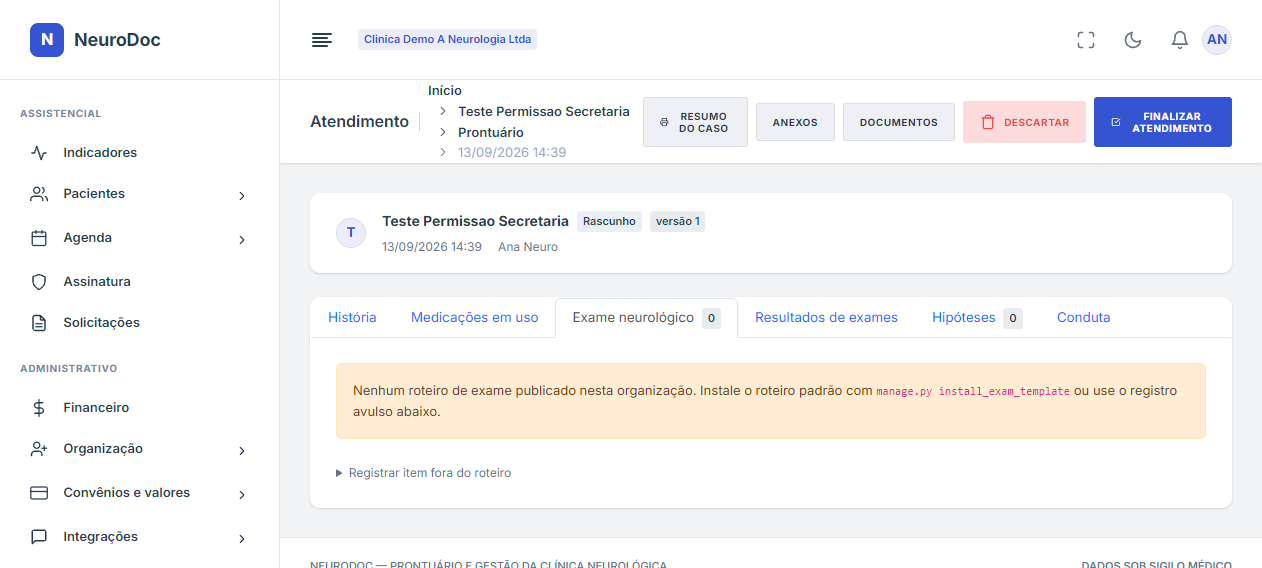
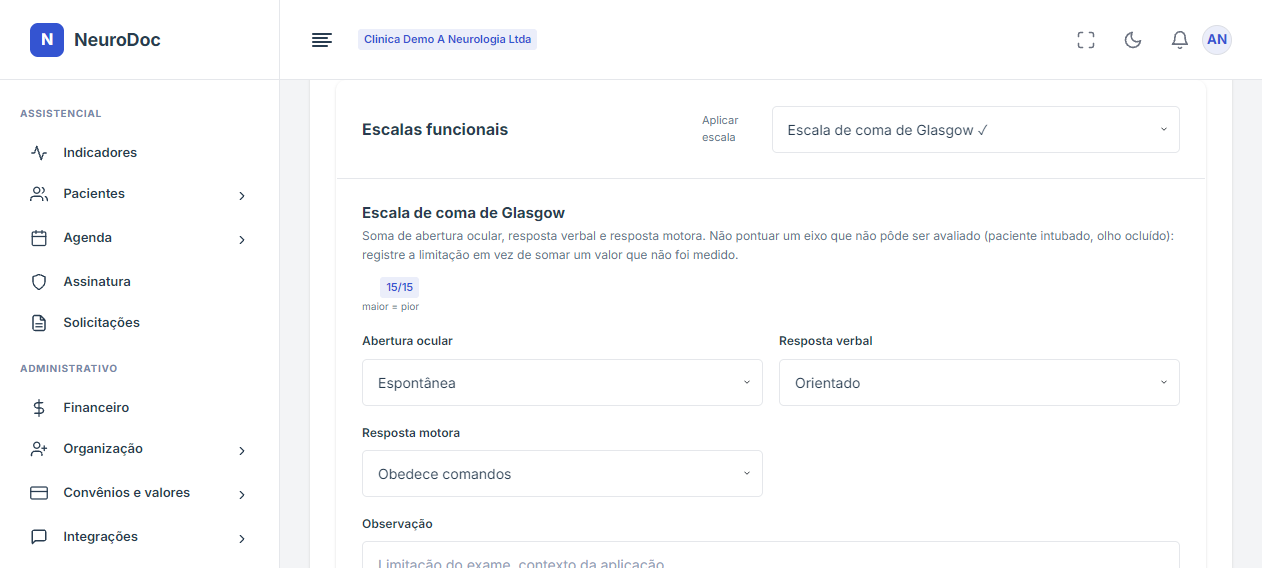
O roteiro de exame vem com a clinica, e nao por comando de terminal
Cadastrar um paciente, abrir o atendimento, clicar em Exame neurologico e
ler um pedido para rodar `manage.py install_exam_template`.

O aviso estava correto: a organizacao nao tinha roteiro. O defeito e que
**nenhum caminho de criacao de organizacao instalava um**. O comando
existia e funcionava, mas comando so roda quando alguem lembra, e os dois
lugares onde uma clinica nasce nao o chamavam -- nem
`accept_platform_invitation`, que e o caminho de producao, nem
`seed_demo`. Toda clinica que entrasse em producao cairia nessa tela, e a
primeira pessoa a abrir o exame neurologico seria a primeira a descobrir
que ele nao estava la.

`exams/provisioning.py::ensure_default_template` passa a ser chamada nos
dois pontos. Idempotente: reinstalar versiona, e isso esta certo para uma
atualizacao deliberada, mas provisionar nao e atualizar. Nao derruba quem
esta entrando: a falha aqui seria de empacotamento, e clinica sem roteiro
ainda registra achado em texto avulso -- abortar o cadastro trocaria um
problema pequeno por um intransponivel. Roda no proprio ponto de
salvamento, para nao envenenar a transacao de quem chamou.

O aviso ficou, porque o estado continua possivel, mas reescrito: fala com
quem esta atendendo, diz o que fazer agora e a quem recorrer. O comando
de terminal pedia ao medico algo que ele nao tem como fazer.

Chegou ao manual publico: `exame-roteiro.png` e `exame-escalas.png` foram
tiradas contra o banco recem-limpo e mostravam o aviso de erro como se
[…]

diff --git a/templates/clinical/detail.html b/templates/clinical/detail.html
@@ -312,9 +312,17 @@ digitado em outra.{% endcomment %}
                 {% include "exams/scales.html" %}
 
                 {% else %}
-                <div class="alert alert-warning fade show fs-13" role="alert">
-                    Nenhum roteiro de exame publicado nesta organização. Instale o roteiro padrão
-                    com <code>manage.py install_exam_template</code> ou use o registro avulso abaixo.
+                {% comment %}Estado raro: toda organização recebe o roteiro padrão
+                ao ser criada. Se ele não está aqui, alguém o despublicou — e a
+                mensagem fala com quem está atendendo, não com um administrador de
+                servidor. O comando de terminal que ficava nesta linha pedia ao
+                médico algo que ele não tem como fazer.{% endcomment %}
+                <div class="alert alert-soft-warning fade show fs-13" role="alert">
+                    Esta organização está sem roteiro de exame publicado. Registre os
+                    achados pelo campo avulso abaixo — eles entram no prontuário do mesmo
+                    jeito — e avise o suporte em
+                    <a href="mailto:contato@neurodoc.app.br">contato@neurodoc.app.br</a>
+                    para restabelecer o roteiro completo.
                 </div>
                 {% endif %}
 

diff --git a/checks/check_roteiro.py b/checks/check_roteiro.py
@@ -1,0 +1,134 @@
+"""Toda clinica nasce com o roteiro de exame -- ou nasce quebrada?
+
+O exame neurologico estruturado e a razao de o produto existir para um
+neurologista, e ate aqui ele dependia de alguem lembrar de rodar
+`manage.py install_exam_template` depois de criar a organizacao.
+
+Ninguem lembrava. A clinica entrava, atendia o primeiro paciente, abria o
+exame e lia um aviso pedindo um comando de terminal que o dono do
+consultorio nao tem como executar. O defeito chegou ate as capturas do
+manual publico, que e onde ele foi finalmente visto.
+
+As perguntas sao:
+
+- as clinicas que existem tem roteiro publicado e padrao?
+- a tela de atendimento ainda pede o comando de terminal?
+- uma clinica criada agora, por convite, ja nasce com roteiro?
+- provisionar duas vezes versiona o roteiro sem necessidade?
+"""
+from django.conf import settings as dj_settings
+from django.test import Client
+
+dj_settings.ALLOWED_HOSTS = list(dj_settings.ALLOWED_HOSTS) + ['testserver']
+
+from accounts.models import User
+from clinical.models import Encounter
+from exams.models import (
+    ExamNode, ExamScale, ExamScaleItem, ExamTemplate, ExamTemplateStatus,
+)
+from exams.provisioning import ensure_default_template
+from tenancy.invitations import issue_invitation
+from tenancy.models import InvitationPurpose, Membership, Tenant
+from tenancy.plans import PlanCode
+from tenancy.services import accept_platform_invitation
+
+falhas = []
+
+
+def _oficiais(tenant_id):
+    return ExamTemplate.objects.filter(
+        tenant_id=tenant_id, owner_membership__isnull=True,
+        status=ExamTemplateStatus.PUBLISHED,
+    )
+
+
+print('=== 1. as clinicas existentes tem roteiro publicado e padrao ===')
+for tenant in Tenant.objects.all():
+    publicados = _oficiais(tenant.id).count()
+    padrao = ExamTemplate.objects.filter(tenant=tenant, is_default=True).first()
+    nos = padrao.nodes.count() if padrao else 0
+    print(f'  {tenant.slug:18} publicados={publicados}  padrao={bool(padrao)}  nos={nos}')
+    if not publicados:
+        falhas.append(f'{tenant.slug} nao tem roteiro de exame publicado')
+    if padrao is None:
+        falhas.append(f'{tenant.slug} nao tem roteiro padrao')
+    elif nos < 100:
+        # O roteiro de neurologia tem centenas de nos; um punhado significa
+        # carga interrompida no meio, que e pior do que nao ter.
+        falhas.append(f'{tenant.slug} tem roteiro padrao com apenas {nos} nos')
+
+print('=== 2. a tela de atendimento nao pede comando de terminal ===')
+tenant_a = Tenant.objects.get(slug='demo-clinica-a')
+medico = User.objects.get(email='doctor-a@demo.neurodoc.local')
+atendimento = Encounter.objects.filter(tenant=tenant_a).first()
+c = Client()
+c.force_login(medico)
+s = c.session
+s['tenant_id'] = str(tenant_a.id)
+s.save()
+corpo = c.get(f'/app/clinical/encounters/{atendimento.id}/').content.decode()
+pede_comando = 'install_exam_template' in corpo
+sem_roteiro = 'Nenhum roteiro de exame publicado' in corpo
+print(f'  cita install_exam_template={pede_comando}  avisa sem roteiro={sem_roteiro}')
+if pede_comando or sem_roteiro:
+    falhas.append('a tela de atendimento manda o usuario rodar um comando de terminal')
+
+print('=== 3. clinica criada por convite ja nasce com roteiro ===')
+
+
+def _cnpj(base):
+    def dv(nums, pesos):
+        resto = sum(n * p for n, p in zip(nums, pesos)) % 11
+        return 0 if resto < 2 else 11 - resto
+
+    numeros = [int(x) for x in base]
+    d1 = dv(numeros, [5, 4, 3, 2, 9, 8, 7, 6, 5, 4, 3, 2])
+    d2 = dv(numeros + [d1], [6, 5, 4, 3, 2, 9, 8, 7, 6, 5, 4, 3, 2])
+    return base + str(d1) + str(d2)
+
+
+emissor = User.objects.filter(is_superuser=True).first()
+retorno = issue_invitation(
+    purpose=InvitationPurpose.PLATFORM, issued_by=emissor, plan=PlanCode.BASIC,
+)
+token = next(x for x in retorno if isinstance(x, str))
+usuario, nova, _vinculo = accept_platform_invitation(
+    token, 'check-roteiro@example.invalid', 'S3nhaF0rte!123',
+    'Clinica Do Roteiro Ltda', _cnpj('987654320001'),
+)
+publicados = _oficiais(nova.id).count()
+padrao = ExamTemplate.objects.filter(tenant=nova, is_default=True).first()
+escalas = ExamScale.objects.filter(tenant=nova).count()
+print(f'  {nova.slug}: publicados={publicados}  padrao={bool(padrao)} '
+      f'nos={padrao.nodes.count() if padrao else 0}  escalas={escalas}')
+if not publicados or padrao is None:
+    falhas.append('clinica criada por convite nasceu sem roteiro de exame')
+if not escalas:
+    falhas.append('clinica criada por convite nasceu sem as escalas')
+
+print('=== 4. provisionar de novo nao versiona a toa ===')
+# Reinstalar deliberadamente versiona, e esta certo -- e assim que uma
+# atualizacao do roteiro preserva o atendimento antigo. O que nao pode e a
+# clinica ganhar uma versao nova a cada vez que o provisionamento roda.
+antes = _oficiais(nova.id).count()
+repetido = ensure_default_template(nova.id)
+depois = _oficiais(nova.id).count()
+print(f'  chamou de novo -> devolveu={repetido}  publicados {antes} -> {depois}')
+if repetido is not None or depois != antes:
+    falhas.append('provisionar duas vezes criou uma versao nova do roteiro sem necessidade')
+
+# limpeza: a clinica de teste nao fica no banco
+ExamNode.objects.filter(tenant=nova).delete()
+ExamTemplate.objects.filter(tenant=nova).delete()
+ExamScaleItem.objects.filter(tenant=nova).delete()
+ExamScale.objects.filter(tenant=nova).delete()
+Membership.objects.filter(tenant=nova).delete()
+nova.delete()
+usuario.delete()
+
+print('---')
+if falhas:
+    for linha in falhas:
+        print('FALHA:', linha)
+    raise SystemExit(1)
+print('OK: a clinica nasce com o roteiro de exame, e a tela nao pede terminal.')

diff --git a/exams/provisioning.py b/exams/provisioning.py
@@ -1,0 +1,58 @@
+"""O roteiro de exame que toda clínica recebe ao nascer.
+
+O exame neurológico estruturado é o motivo de o produto existir para um
+neurologista, e até aqui ele dependia de alguém lembrar de rodar
+`manage.py install_exam_template` depois de criar a organização. Ninguém
+lembra: a clínica entrava, atendia o primeiro paciente, abria o exame e
+lia um aviso pedindo um comando de terminal que o dono do consultório não
+tem como executar.
+
+Provisionar é do sistema, não do operador. A instalação passou para o
+mesmo ponto em que a organização nasce.
+"""
+import logging
+
+from django.db import transaction
+
+from .loader import DATA_DIR, TemplateLoadError, install_template
+from .models import ExamTemplate, ExamTemplateStatus
+
+logger = logging.getLogger(__name__)
+
+DEFAULT_TEMPLATE_FILE = DATA_DIR / 'neurologia.yaml'
+
+
+def has_official_template(tenant_id):
+    """A organização já tem roteiro publicado próprio (não de um médico)?"""
+    return ExamTemplate.objects.filter(
+        tenant_id=tenant_id,
+        owner_membership__isnull=True,
+        status=ExamTemplateStatus.PUBLISHED,
+    ).exists()
+
+
+def ensure_default_template(tenant_id, path=DEFAULT_TEMPLATE_FILE):
+    """Instala o roteiro padrão se a clínica ainda não tiver um.
+
+    Idempotente de propósito: reinstalar versiona (é o que `install_template`
+    faz, e está certo para uma atualização deliberada), mas uma organização
+    que já tem roteiro não deve ganhar uma versão nova só porque alguém
+    rodou o provisionamento de novo.
+
+    **Não derruba quem está entrando.** A falha aqui é de empacotamento — o
+    YAML vem no repositório —, e uma clínica sem roteiro ainda é uma clínica
+    utilizável: ela registra o exame em texto avulso e o roteiro pode ser
+    instalado depois. Derrubar o cadastro inteiro por causa disso troca um
+    problema pequeno por um intransponível.
+    """
+    if has_official_template(tenant_id):
+        return None
+    try:
+        # Ponto de salvamento próprio: se a carga falhar no meio, o que ela
+        # criou desaparece sem contaminar a transação de quem chamou.
+        with transaction.atomic():
+            template, _ = install_template(tenant_id, path)
+    except (TemplateLoadError, OSError):
+        logger.exception('Falha ao instalar o roteiro de exame no tenant %s', tenant_id)
+        return None
+    return template

diff --git a/base/management/commands/seed_demo.py b/base/management/commands/seed_demo.py
@@ -27,6 +27,7 @@ class Command(BaseCommand):
         from accounts.models import User
         from catalogs.importers import activate_release, import_catalog
         from catalogs.models import CatalogRelease
+        from exams.provisioning import ensure_default_template
         from patients.models import (
             HealthPlan, HealthPlanKind, Insurer, ObservationKind, Patient, PatientCoverage,
             SexAtRegistration,
@@ -73,6 +74,13 @@ class Command(BaseCommand):
             elif tenant.plan != plan:
                 tenant.plan = plan
                 tenant.save(update_fields=['plan'])
+            # O roteiro de exame vem junto, como vem em qualquer clínica
+            # criada pelo sistema. Sem isto, a demonstração recém-semeada
+            # abre o exame neurológico num aviso pedindo um comando de
+            # terminal -- e foi assim que ele foi parar nas capturas do
+            # manual.
+            if ensure_default_template(tenant.id) is not None:
+                counts['roteiros'] = counts.get('roteiros', 0) + 1
             return tenant
 
         def get_or_create_membership(tenant, user, roles):

diff --git a/checks/check_convite_plano.py b/checks/check_convite_plano.py
@@ -48,10 +48,18 @@ def apagar_organizacoes(cnpjs, emails):
     isto fora de um banco de demonstracao.
     """
     from audit.models import AuditEvent
+    from exams.models import ExamNode, ExamScale, ExamScaleItem, ExamTemplate
     from tenancy.models import Membership
 
     Membership.objects.filter(tenant__cnpj__in=cnpjs).delete()
     AuditEvent.objects.filter(tenant__cnpj__in=cnpjs).delete()
+    # A organizacao nasce com o roteiro de exame e as escalas (veja
+    # `exams/provisioning.py`), e `ExamScale.tenant` tambem e `PROTECT`.
+    # Ordem importa: no depende de template, item depende de escala.
+    ExamNode.objects.filter(tenant__cnpj__in=cnpjs).delete()
+    ExamTemplate.objects.filter(tenant__cnpj__in=cnpjs).delete()
+    ExamScaleItem.objects.filter(tenant__cnpj__in=cnpjs).delete()
+    ExamScale.objects.filter(tenant__cnpj__in=cnpjs).delete()
     Tenant.objects.filter(cnpj__in=cnpjs).delete()
     User.objects.filter(email__in=emails).delete()
 

diff --git a/tenancy/services.py b/tenancy/services.py
@@ -37,6 +37,7 @@ def accept_platform_invitation(token, email, password, legal_name, cnpj, trade_n
     failed signup never burns a one-time invite.
     """
     from accounts.models import User
+    from exams.provisioning import ensure_default_template
 
     invitation = consume_invitation(token, consumed_by=None, expected_purpose=InvitationPurpose.PLATFORM)
     if invitation is None:
@@ -68,6 +69,9 @@ def accept_platform_invitation(token, email, password, legal_name, cnpj, trade_n
     )
     invitation.consumed_by = user
     invitation.save(update_fields=['consumed_by'])
+    # A clínica nasce pronta para atender: sem isto, o primeiro exame
+    # neurológico abre num aviso pedindo um comando de terminal.
+    ensure_default_template(tenant.id)
     return user, tenant, membership
 
 

diff --git a/docs/homologation/exam-provisioning.md b/docs/homologation/exam-provisioning.md
@@ -1,0 +1,94 @@
+# O roteiro de exame vem com a clínica
+
+Reportado em uso real: cadastrar um paciente, abrir o atendimento, clicar
+na aba **Exame neurológico** e ler
+
+> Nenhum roteiro de exame publicado nesta organização. Instale o roteiro
+> padrão com `manage.py install_exam_template` ou use o registro avulso
+> abaixo.
+
+Evidências: `checks/check_roteiro.py`.
+
+## O defeito não era o aviso
+
+O aviso estava tecnicamente correto — a organização realmente não tinha
+roteiro. O defeito é que **nenhum caminho de criação de organização
+instalava um**.
+
+`exams/management/commands/install_exam_template.py` existe desde o
+começo e funciona. Mas era um comando, e um comando só roda quando alguém
+lembra de rodá-lo. Os dois lugares onde uma clínica nasce não o
+chamavam:
+
+- `tenancy/services.py::accept_platform_invitation` — o caminho de
+  produção, o convite que cria a organização e o dono;
+- `base/management/commands/seed_demo.py` — a demonstração.
+
+Ou seja: **toda clínica que entrasse em produção cairia nessa tela**, e
+a primeira pessoa a ver o exame neurológico seria também a primeira a
+descobrir que ele não estava lá. O produto é um prontuário de
+neurologia; o exame estruturado é o motivo de ele existir.
+
+## Onde a correção foi parar
+
+`exams/provisioning.py`, `ensure_default_template(tenant_id)`, chamada
+nos dois pontos acima. Três decisões dentro dela:
+
+**Idempotente.** Reinstalar versiona o roteiro, e isso está certo para
+uma atualização deliberada — o atendimento antigo continua lendo a versão
+com que foi preenchido. Mas provisionar não é atualizar: uma clínica que
+já tem roteiro não ganha versão nova só porque a semeadura rodou de novo.
+A função devolve `None` nesse caso, e `check_roteiro` seção 4 confere.
+
+**Não derruba quem está entrando.** A falha aqui seria de empacotamento —
+o YAML vem no repositório. E uma clínica sem roteiro ainda é utilizável:
+registra o achado em texto avulso. Abortar o cadastro inteiro trocaria um
+problema pequeno por um intransponível, então a exceção é registrada no
+log e o cadastro segue.
+
+**Ponto de salvamento próprio.** A carga roda dentro do seu próprio
+`transaction.atomic()`, para que uma falha no meio desapareça sem
+contaminar a transação de quem chamou — `accept_platform_invitation` é
+atômica, e uma exceção de banco engolida lá dentro envenenaria o cadastro
+inteiro.
+
+As **14 escalas funcionais** vêm junto: `install_template` chama
+`load_scales`. A clínica nova nasce com 387 nós de roteiro e as escalas
+pontuadas.
+
+## O aviso que sobrou
+
+O estado continua possível — alguém pode despublicar o roteiro — então a
+mensagem ficou, reescrita. A anterior pedia ao médico que rodasse
+`manage.py install_exam_template`: um comando de terminal, num servidor a
+que ele não tem acesso, com uma sintaxe que não significa nada para quem
+está atendendo. A nova diz o que fazer agora (registrar pelo campo
+avulso, que preserva o achado no prontuário) e a quem recorrer.
+
+## Chegou até o manual público
+
+As capturas `exame-roteiro.png` e `exame-escalas.png` da central de ajuda
+foram tiradas contra o banco de demonstração recém-limpo — que, pelo
+mesmo defeito, estava sem roteiro. O manual público mostrava o aviso de
+erro como se fosse a tela normal do produto. Ambas refeitas.
+
+É o segundo achado da mesma natureza nesta rodada: um defeito que só uma
+**instalação limpa** revela. O primeiro foram os dois defeitos do
+`seed_demo` (regra de agenda sem `starts_on`, catálogo real rebaixado
+pelo de amostra). Banco de trabalho acumulado esconde exatamente a
+experiência de quem chega agora.
+
+## O que foi verificado
+
+`checks/check_roteiro.py`, quatro seções, todas verdes:
+
+| # | Pergunta | Resultado |
+| --- | --- | --- |
+| 1 | As clínicas existentes têm roteiro publicado e padrão? | 2 de 2, 387 nós |
+| 2 | A tela de atendimento pede comando de terminal? | Não |
+| 3 | Clínica criada por convite nasce com roteiro? | 387 nós, 14 escalas |
+| 4 | Provisionar de novo versiona à toa? | Não |
+
+A seção 1 confere também o **tamanho** do roteiro, não só a existência:
+uma carga interrompida no meio deixa um punhado de nós, e um roteiro
+truncado é pior do que roteiro nenhum — parece completo.

diff --git a/checks/README.md b/checks/README.md
@@ -65,6 +65,7 @@ sai com código 1 listando as falhas quando não passa.
 | `check_planos` | Limites de plano nas seis portas, e o que acontece ao rebaixar |
 | `check_prontuario` | Número do prontuário e documentos por paciente |
 | `check_roles` | Resposta de cada papel nas telas principais |
+| `check_roteiro` | A clínica nasce com o roteiro de exame instalado |
 | `check_resto` | Hábitos, confirmação por e-mail, pedido editável, receita, console |
 | `check_secretary` | A secretária trabalha, e não passa do que lhe compete |
 | `check_super` | O console da instalação por dentro, e o que ele não mostra |
